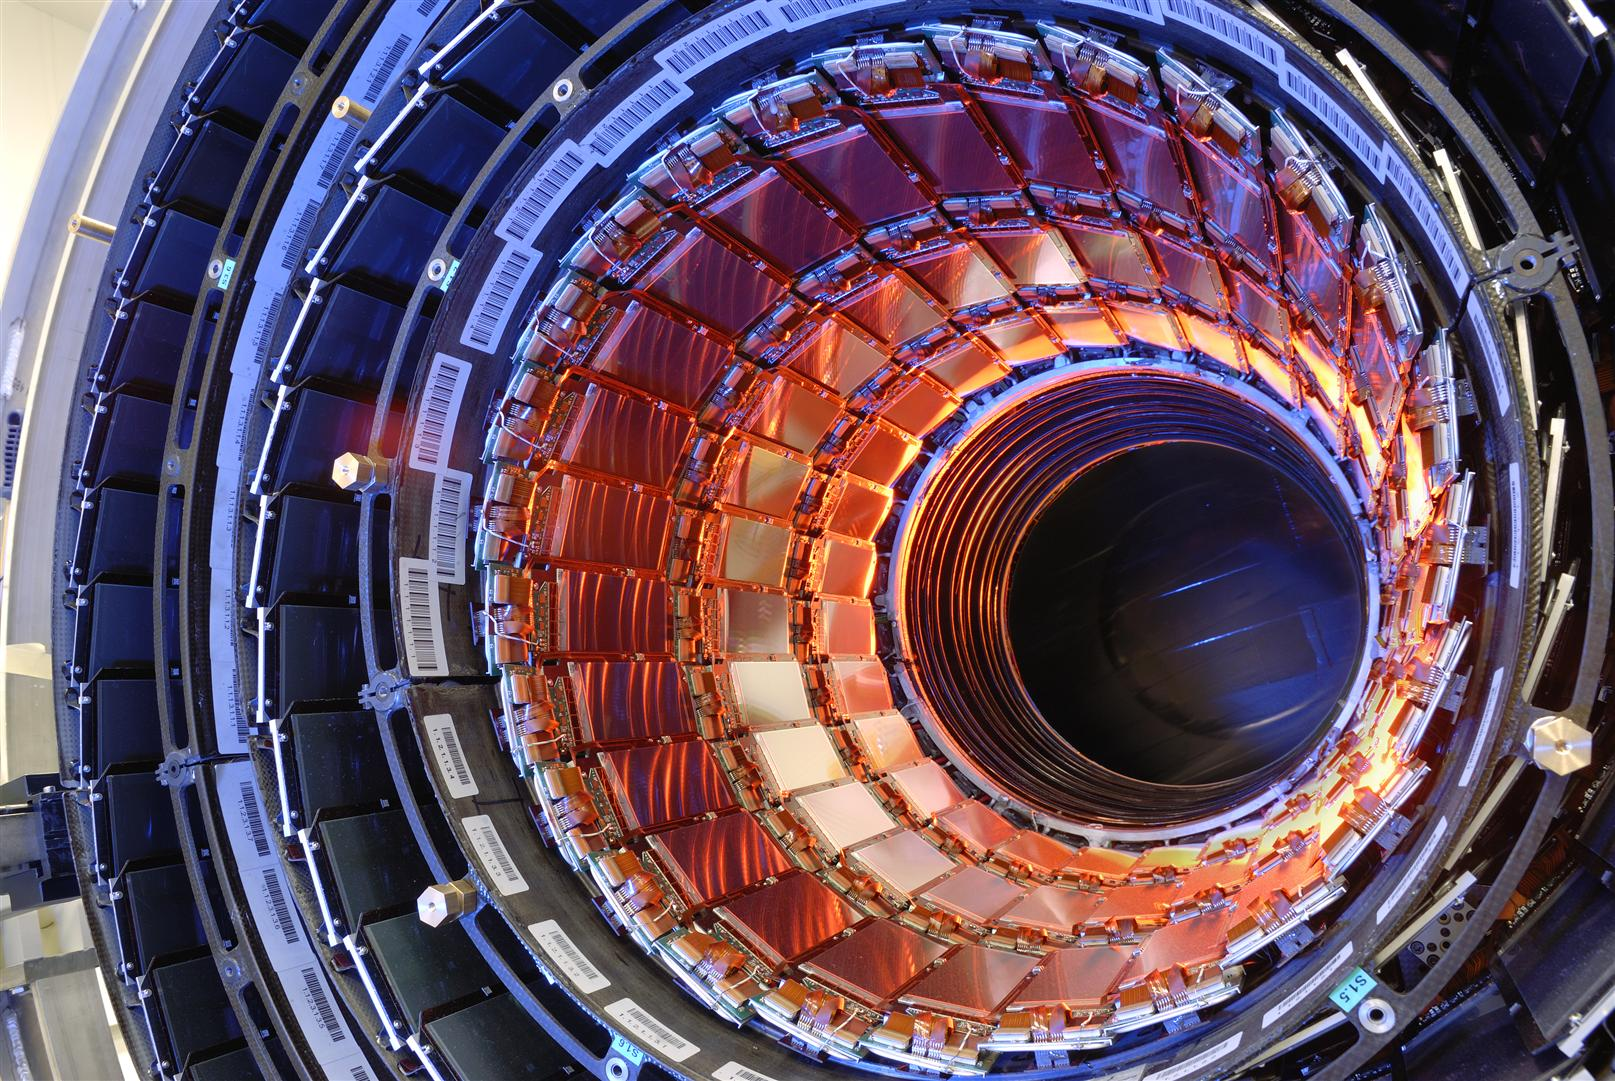
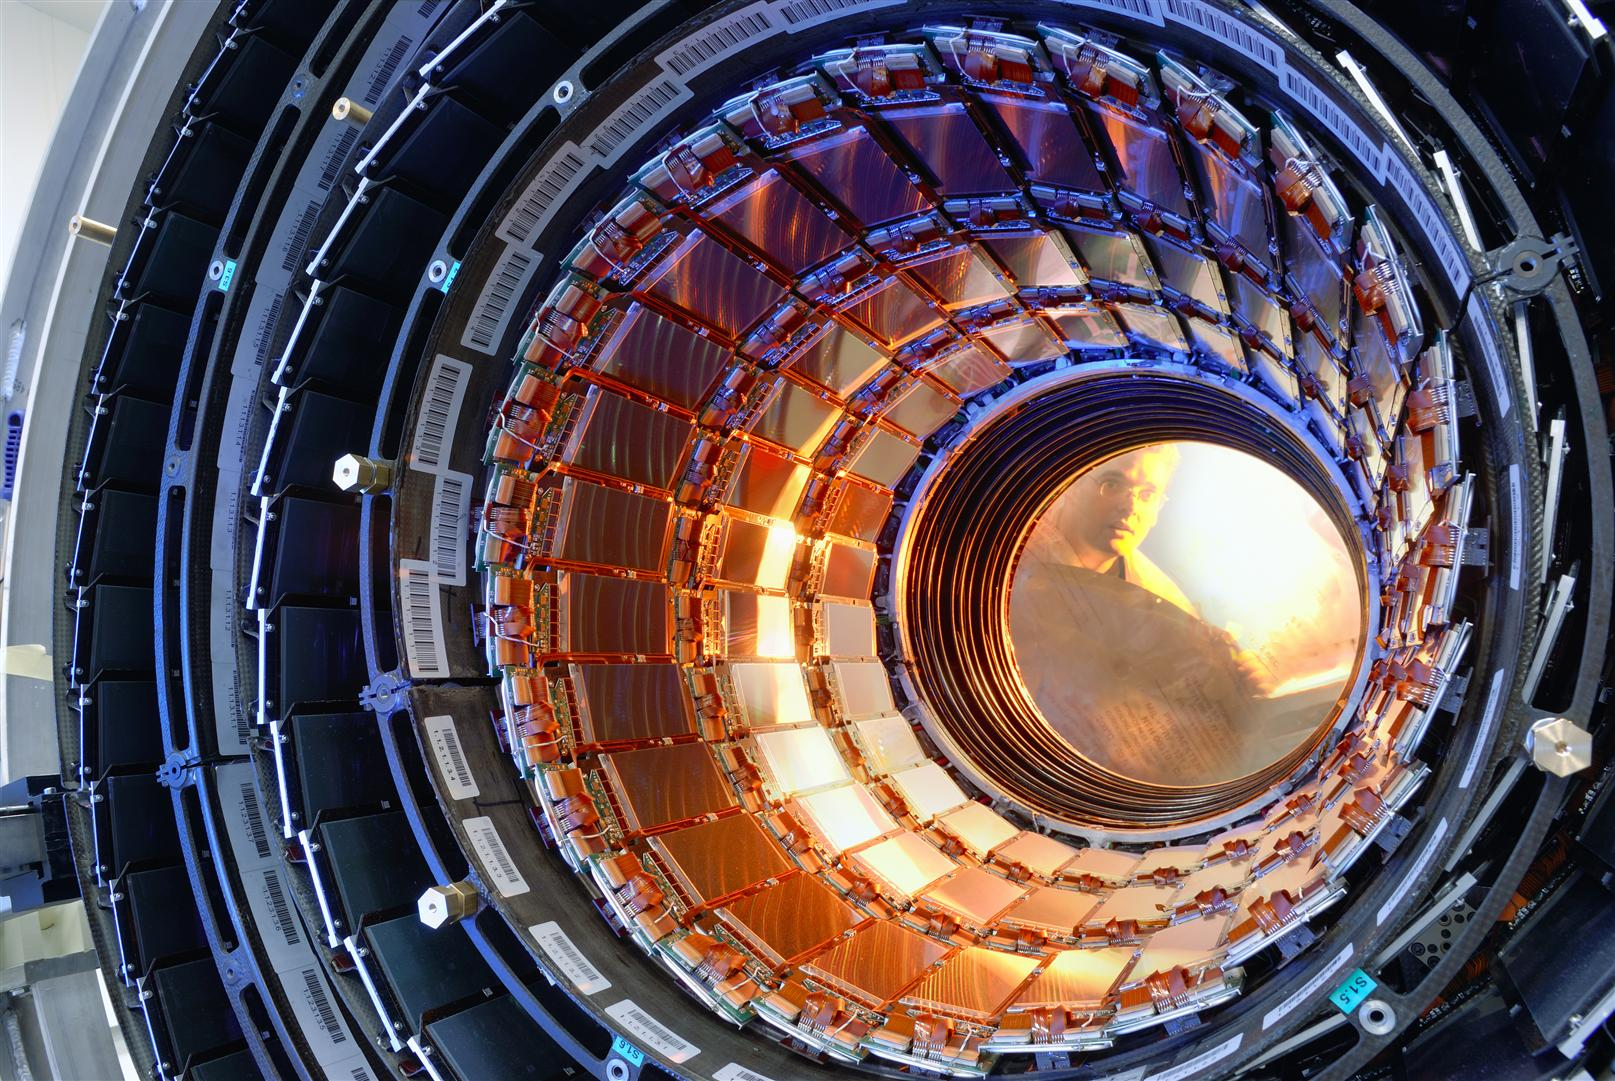
updated

diff --git a/tex/lhc_cms.tex b/tex/lhc_cms.tex
@@ -63,6 +63,35 @@ The Compact Muon Solenoid (CMS) Experiment is one of two general purpose LHC exp
 Compared to ATLAS, which stands at a mighty $46\times25\times25$ meters in dimension, CMS is ``compact'' at a stout $21\times15\times15$ m, with a dedicated muon system and one of the world's largest solenoid magnets~\cite{ATLASWeb, CMSWeb}. 
 See Fig.~\ref{fig:cms_labeled} for its exact specifications, and Figures~\ref{fig:cms_pics} and \ref{fig:cms_jguiang} for some beauty shots. 
 
+\begin{figure}[htb]
+    \centering
+    \includegraphics[width=0.9\textwidth]{fig/cms/cms_labeled.jpg}
+    \caption{
+        A detailed cutaway diagram of CMS, with each subdetector labeled with its name and some its characteristics, from Ref.~\cite{Sakuma:2665537}. 
+    }
+    \label{fig:cms_labeled}
+\end{figure}
+
+\begin{figure}[htb]
+    \centering
+    \subfloat{\includegraphics[width=0.465\textwidth]{fig/cms/cms_picture1.jpg}}\quad
+    \subfloat{\includegraphics[width=0.435\textwidth]{fig/cms/cms_picture2.jpg}}
+    \caption{
+        The Compact Muon Solenoid in all of its glory, with one of the endcaps separated from the main body of the experiment, pictured from the top (left) and side (right). 
+    }
+    \label{fig:cms_pics}
+\end{figure}
+
+\begin{figure}[htb]
+    \centering
+    \subfloat{\includegraphics[width=0.492\textwidth,valign=c]{fig/cms/cms_picture3.jpg}}\quad
+    \subfloat{\includegraphics[width=0.408\textwidth,valign=c]{fig/cms/cms_jguiang.jpg}}
+    \caption{
+        The Compact Muon Solenoid in the closed configuration, pictured from the top (left) and side, with a physicist in the foreground for scale (right).
+    }
+    \label{fig:cms_jguiang}
+\end{figure}
+
 \subsection{Overview}
 CMS is composed of subdetectors arranged in concentric layers, where each layer interacts with, or completely absorbs, certain particles, producing an electric signal that can be used to measure some property of those particles. 
 The innermost layer is the silicon tracker, which allows for the reconstruction of the trajectories of throughgoing charged particles (``tracks''). 
@@ -79,28 +108,21 @@ The exact function of each subdetector layer described here is detailed below.
 
 \begin{figure}[htb]
     \centering
-    \includegraphics[width=0.9\textwidth]{fig/cms/cms_labeled.jpg}
-    \caption{
-        A detailed cutaway diagram of CMS, with each subdetector labeled with its name and some its characteristics. 
-    }
-    \label{fig:cms_labeled}
-\end{figure}
-
-\begin{figure}[htb]
-    \centering
     \subfloat{\includegraphics[width=0.465\textwidth,valign=c]{fig/cms/particle_id_sandwich.png}}\quad
     \subfloat{\includegraphics[width=0.435\textwidth,valign=c]{fig/cms/cms_slice.png}}
     \caption{
-        A generic, general-purpose particle detector (left) and a transverse slice of CMS (right), from Ref.~\cite{Barney:2120661}, showing the signals left by different kinds of particles.
+        A schematic of a generic, general-purpose particle detector (left) and a transverse slice of CMS (right), from Ref.~\cite{Barney:2120661}, showing the signals left by different kinds of particles.
     }
     \label{fig:cms_particle_id}
 \end{figure}
+
+\clearpage
 
 \subsection{Superconducting solenoid}
 The curve of a track is critical, as it allows us to infer the charge and momentum of a particle. 
 However, in a weak magnetic field, the particles produced at the LHC would have nearly straight tracks, due to the large proton-proton collision energy. 
 The magnetic field inside of CMS must therefore be very large~\cite{CMSWebMagnet}. 
-It should also be nearly uniform everywhere in order to make the computation of each particle's charge and momentum as simple as possible. 
+It should also be nearly uniform everywhere in order to make the determination of each particle's charge and momentum as simple as possible. 
 The CMS magnet must also be large in dimension, however, as it must surround the tracker, ECAL, and HCAL, since it would otherwise block outgoing particles. 
 
 By winding copper wire into a helix and passing a current through it, we can generate an magnetic field whose strength is directly proportional to the current and number of turns of the wire, but inversely proportional to the length of the helix. 
@@ -108,7 +130,7 @@ Within the volume of the helix, the magnetic field will be almost uniformly orie
 This is not true outside of the helix where the magnetic field lines curve in space. 
 
 The CMS magnet~\cite{CERN-LHCC-97-010} is a massive\footnotemark{} realization of a solenoid. 
-\footnotetext{It was built offsite, however, so it needed to be designed to fit within 7 m in order ot be transported via the streets in Cessy, France (under which CMS is situated)~\cite{CMSWebMagnet}.}
+\footnotetext{It was built offsite, however, so it needed to be designed to fit within 7 such that it could be wheeled through the streets in Cessy, France (under which CMS is situated)~\cite{CMSWebMagnet}.}
 It is comprised of over 2000 turns of Rutherford wire, which has a rectangular cross section (Fig.~\ref{fig:cms_magnet}). 
 In operation, it is cooled to superconducting temperatures (-268.5 \de{}C, or one degree warmer than outer space), such that a high current of 20 kiloamperes\footnotemark{} can be passed through the coil without destroying it. 
 \footnotetext{For scale, this is $100\,000$ times larger than the minimum fatal current for humans (100--200 milliamperes)~\cite{10.1093/ptj/46.9.968}.}
@@ -131,7 +153,7 @@ Inside of the iron, the magnetic field runs almost uniformly parallel to the fie
 
 \begin{figure}[htb]
     \centering
-    \subfloat{\includegraphics[width=0.3\textwidth,valign=c]{fig/cms/solenoid_section.jpg}}\quad
+    \subfloat{\includegraphics[width=0.3\textwidth,valign=c]{fig/cms/solenoid_wedge.jpg}}\quad
     \subfloat{\includegraphics[width=0.6\textwidth,valign=c]{fig/cms/solenoid_cable.png}}
     \caption{
         A photograph of a section of the CMS magnet, from Ref.~\cite{CourierSolenoid}, showing the cross section of the solenoid windings (left), and a diagram of a single winding, from Ref.~\cite{CERN-LHCC-97-010} (right). 
@@ -144,34 +166,54 @@ In order to reconstruct the track of any particle, we need its position at multi
 A tracker records these positions. 
 Mechanically, this can be done in a variety of ways. 
 Some of the earliest particle physics experiments used bubble chambers, a device that maintains (for a brief instance) a volume of superheated liquid immersed in a magnetic field in which throughgoing charged particles leave helical trails of bubbles. 
-Photographs of these trails were used to infer properties of each particle. 
+Photographs of these trails were used to infer the identities of each particle. 
 Still others used even more exotic non-electric solutions, like the OPERA Experiment, which used enormous layers of nuclear emulsion film (modified photography film) in which throughgoing particles would leave tiny black dots after the film was developed\footnotemark{}~\cite{Acquafredda:2009zz}---the experiment used over 100\,000 m$^2$ of emulsion film in total. 
 \footnotetext{Developing the film was quite an operation, and a large robotic arm was used to remove and replace the layers.}
-Because multiple layers of the film were stacked together, the track could be reconstructed in three dimensions. 
 
-The leading challenge in designed the CMS tracker was the unprecedented amount of throughgoing particles, due to the high frequency of proton-proton collisions which each produce many thousands of particles. 
-Existing tracker designs, like the CDF Experiment's beautiful gas-and-wire tracker~\cite{CDF:2003xbh}, could thus not be used\footnotemark{}.
+The leading challenge in designing the CMS tracker was the unprecedented level of radiation, due to the high frequency of proton-proton collisions which each produce many thousands of particles. 
+Existing tracker designs, like the CDF Experiment's beautiful gas-and-wire tracker~\cite{CDF:2003xbh}, would quickly break down\footnotemark{} in this kind of environment.
 \footnotetext{In fact, the tracker section was left blank in the first CMS design document, since there were no known solutions at the time~\cite{CMSWebTracker}.}
-Thankfully, advances in silicon manufacturing yielded a new solution. 
+Thankfully, advances in radiation-hard electronics yielded a new solution. 
+In particular, a silicon-based tracking module was devised. 
+When charged particles pass through the module, they liberate electrons from the silicon atoms. 
+These electrons are collected one of several small readout plates, which results in a localized electric signal called a ``hit,'' giving excellent spatial resolution. 
+
+The CMS tracker is composed of multiple layers of silicon tracker modules (Fig.~\ref{fig:cms_tracker_layout}), such that each throughgoing particle leaves multiple hits that can then be used to reconstruct its track. 
+The layers are grouped into different sections according to their proximity to the beamline and their geometry. 
+The innermost layers comprise the ``inner tracker'' (Fig.~\ref{fig:cms_tracker_inner}). 
+In these layers, pixel modules are used because they have superior spatial resolution, allowing us to measure the first portion of each track precisely. 
+The outermost layers comprise the ``outer tracker'' (Fig.~\ref{fig:cms_tracker_outer}). 
+These layers use strip modules, which have worse spatial resolution than the pixel modules, but are easier to produce. 
+Both the inner and outer tracker have two regions: a barrel and forward, or ``endcap,'' region. 
+In the barrel region, the modules are arranged in a cylindrical geometry parallel to the beamline, while in the forward region, the modules tile a circular region perpendicular to the beamline. 
 
 \begin{figure}[htb]
     \centering
-    \subfloat{\includegraphics[width=0.465\textwidth,valign=c]{fig/cms/tracker_rainbow.jpg}}\quad
-    \subfloat{\includegraphics[width=0.435\textwidth,valign=c]{fig/cms/tracker_install.jpg}}
+    \subfloat[]{\includegraphics[width=0.45\textwidth,valign=c]{fig/cms/tracker_pixels.jpg}\label{fig:cms_tracker_inner}}\quad
+    \subfloat[]{\includegraphics[width=0.45\textwidth,valign=c]{fig/cms/tracker_rainbow.jpg}\label{fig:cms_tracker_outer}}
     \caption{
-        A photograph of the CMS outer tracker (left), from Ref.~\cite{Maximilien:995912}, and the installation of the entire tracker (right), from Ref~\cite{Hoch:1275108}. 
+        A photograph of the inner forward pixel modules (left), from Ref.~\cite{Hoch:2017264}, and the outer barrel layers with a physicist for scale (right), from Ref.~\cite{Maximilien:995912}, of the CMS tracker. 
     }
-    \label{fig:cms_tracker}
+    \label{fig:cms_tracker_pictures}
+\end{figure}
+
+\begin{figure}[htb]
+    \centering
+    \includegraphics[width=0.9\textwidth,valign=c]{fig/cms/tracker_detailed.png}
+    \caption{
+        A detailed cutaway diagram of the CMS Phase-1 tracker, from Ref.~\cite{Sakuma:2630160}. 
+    }
+    \label{fig:cms_tracker_layout}
 \end{figure}
 
 \subsection{Electromagnetic calorimeter}
 
 \begin{figure}[htb]
     \centering
-    \subfloat{\includegraphics[width=0.465\textwidth,valign=c]{fig/cms/ecal_installed.jpg}}\quad
-    \subfloat{\includegraphics[width=0.435\textwidth,valign=c]{fig/cms/ecal_crystals.jpg}}
+    \subfloat[]{\includegraphics[width=0.45\textwidth,valign=c]{fig/cms/ecal_install.jpg}\label{fig:cms_ecal_intsall}}\quad
+    \subfloat[]{\includegraphics[width=0.45\textwidth,valign=c]{fig/cms/ecal_crystal.jpg}\label{fig:cms_ecal_crystal}}
     \caption{
-        A photograph of the CMS electromagnetic calorimeter (ECAL) after half of the modules had been installed (left) and physicist Lucas Taylor posed with the lead tungstade scintillator crystals used in the ECAL (right). 
+        A photograph of the CMS electromagnetic calorimeter (ECAL) after half of the modules had been installed (left) and a physicist posed with the lead tungstade scintillator crystals used in the ECAL (right). 
         Both photographs are from Ref.~\cite{Brice:1431477}.
     }
     \label{fig:cms_ecal}
@@ -190,26 +232,6 @@ Thankfully, advances in silicon manufacturing yielded a new solution.
 \end{figure}
 
 \subsection{Muon chambers}
-
-\begin{figure}[htb]
-    \centering
-    \subfloat{\includegraphics[width=0.465\textwidth]{fig/cms/cms_picture1.jpg}}\quad
-    \subfloat{\includegraphics[width=0.435\textwidth]{fig/cms/cms_picture2.jpg}}
-    \caption{
-        The Compact Muon Solenoid in all of its glory, with one of the endcaps separated from the main body of the experiment, pictured from the top (left) and side (right). 
-    }
-    \label{fig:cms_pics}
-\end{figure}
-
-\begin{figure}[htb]
-    \centering
-    \subfloat{\includegraphics[width=0.482\textwidth,valign=c]{fig/cms/cms_picture3.jpg}}\quad
-    \subfloat{\includegraphics[width=0.4\textwidth,valign=c]{fig/cms/cms_jguiang.jpg}}
-    \caption{
-        The Compact Muon Solenoid in the closed configuration, pictured from the top (left) and side, with a physicist in the foreground for scale (right).
-    }
-    \label{fig:cms_jguiang}
-\end{figure}
 
 \clearpage
 

diff --git a/tex/acknowledgements.tex b/tex/acknowledgements.tex
@@ -40,7 +40,7 @@ I thank Gabe Hernandez for being my ex-physics brother (and ex-roommate), for th
 I thank Grady Kestler for being my partner in crime, for Sunday Night Games, and for his camaraderie and insight. 
 
 Chapter~\ref{ch:lhc_cms} describes the Large Hadron Collider (LHC) and the CMS Experiment. 
-The figures used in this chapter were obtained from Refs.~\cite{Servicegraphique:1708849, Maximilien:1295244, Lopienska:2800984, Dominguez:1741036, Barney:2120661, CourierSolenoid, Maximilien:995912, Hoch:1275108, Brice:1431477, Brice:1431485, GinterRussianDudes}, which are materials produced by or for CERN and were released by CERN for informational under CERN copyright~\cite{CERNCopyright}. 
+The figures used in this chapter were obtained from Refs.~\cite{Servicegraphique:1708849, Maximilien:1295244, Lopienska:2800984, Dominguez:1741036, Barney:2120661, CourierSolenoid, Maximilien:995912, Hoch:1275108, Brice:1431477, Brice:1431485, GinterRussianDudes}, which are materials produced by or for CERN and were released by CERN for informational use under CERN copyright~\cite{CERNCopyright}. 
 
 Chapter~\ref{ch:vbswh} describes a search for the production of a W and Higgs boson via vector boson scattering, using data recorded by the CMS experiment from 2016 to 2018. 
 It is a partial reproduction of a paper being prepared for submission for publication of the material. 

diff --git a/tex/vbswh.tex b/tex/vbswh.tex
@@ -57,7 +57,7 @@ Combined with the fact that the signal has a distinctly larger average value of 
     \subfloat{\includegraphics[width=0.45\textwidth]{fig/vbswh/lhe_M_WH_1p0kZ_kWpoints_norm.pdf}\label{fig:lheMWH_kWpoints}}\qquad
     \subfloat{\includegraphics[width=0.45\textwidth]{fig/vbswh/lhe_ST_1p0kZ_kWpoints_norm.pdf}\label{fig:lheST_kWpoints}}\\
     \subfloat{\includegraphics[width=0.45\textwidth]{fig/vbswh/lhe_M_WH_1p0kW_kZpoints_norm.pdf}\label{fig:lheMWH_kZpoints}}\qquad
-    \subfloat{\includegraphics[width=0.45\textwidth]{fig/vbswh/lhe_ST_1p0kZ_kWpoints_norm.pdf}\label{fig:lheST_kZpoints}}
+    \subfloat{\includegraphics[width=0.45\textwidth]{fig/vbswh/lhe_ST_1p0kW_kZpoints_norm.pdf}\label{fig:lheST_kZpoints}}
     \caption{
         Histograms of the invariant mass of the \WH system (left) and \ST (right) plotted from \VBSWH Monte Carlo simulation for $\kZ = +1$ (top) and $\kW = +1$ (bottom). 
         All four histograms demonstrate the enhancement in high-energy kinematics due to modifications to \lambdaWZ. 
